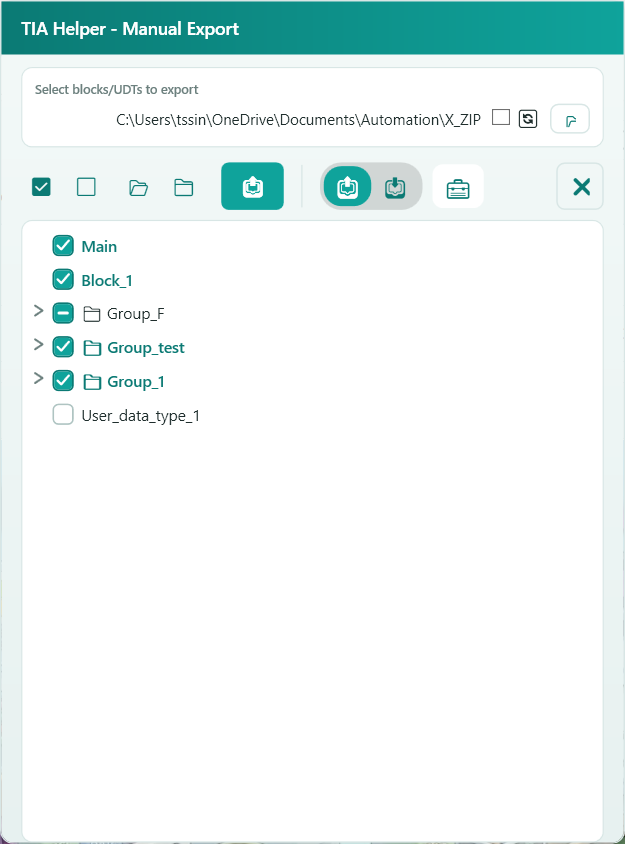
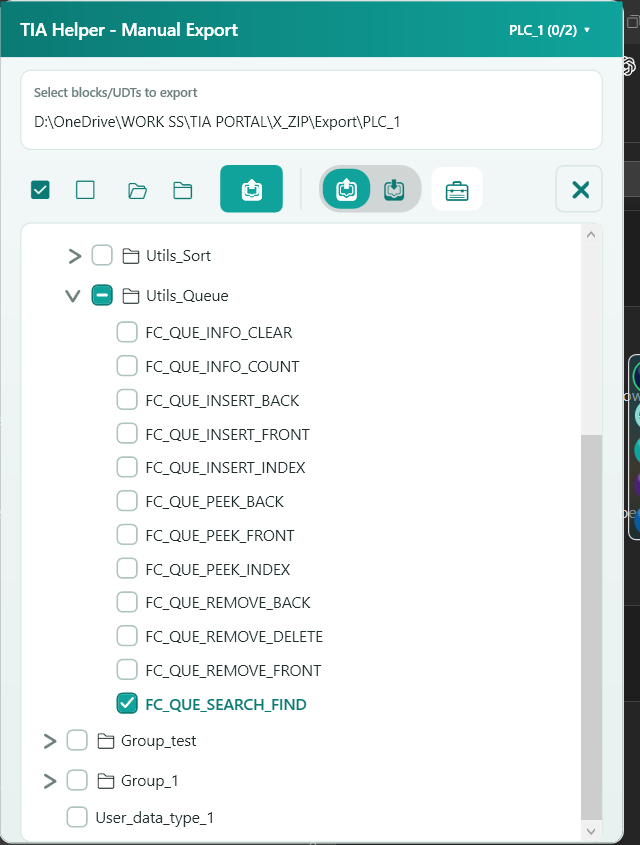
Document PLC picker, right-click menu, and auto-relocate import (v1.0.43)
Updates the Export/Import sections with the multi-PLC dropdown, per-node
right-click menu (export/delete), and the new auto-relocate-to-folder
behavior on import.

diff --git a/README.md b/README.md
@@ -106,10 +106,11 @@ Right-click the Export button to pick which blocks/UDTs to export and where:
 ![Export popup](docs/images/export-popup.png)
 
 - Check the blocks/UDTs you want in the tree (checking a folder checks everything under
-  it). Your checks are remembered per project, and which folders you left expanded/
-  collapsed is remembered too for as long as the app keeps running.
-- **Change...** picks the destination folder — TIA Helper auto-creates a subfolder named
-  after your TIA project, so different projects never mix their files.
+  it). Your checks, which folders you left expanded/collapsed, and even the tree's scroll
+  position are all remembered per project — and now survive a real app restart, not just
+  while the app keeps running.
+- Destination is auto-derived from your TIA project's own file location — a subfolder
+  named after your project, so different projects never mix their files.
 - The icons above the tree are **Select all / Clear / Expand all / Collapse all**.
 - Opens instantly the second time onward — the block list is cached after the first
   connect, and quietly refreshes itself in the background (including the moment right
@@ -118,6 +119,18 @@ Right-click the Export button to pick which blocks/UDTs to export and where:
   else gets re-written, so re-exporting a big project stays fast.
 - Click the export icon at the bottom to run it right now — it dims when there's nothing
   selected or no destination set yet, same as the toolbar's own Export/Import button.
+- **Multiple PLCs in one project?** A badge in the top-right corner (e.g. `PLC_1 (1/2)`)
+  lets you pick which PLC's tree you're looking at *and* which PLC(s) actually get covered
+  when Export runs — check more than one and a single Export run covers all of them:
+
+  ![PLC picker dropdown](docs/images/plc-dropdown.png)
+
+- **Right-click any block/UDT (or a whole folder) for a quick one-off menu** — export just
+  that item right now regardless of what's checked, or (for a single block/UDT) delete it
+  from the PLC entirely. Deleting asks you to type the block's name to confirm first —
+  there's no undo, so make sure you have your own project backup:
+
+  ![Right-click menu on a tree node](docs/images/node-context-menu.png)
 
 </details>
 
@@ -131,11 +144,22 @@ Same picker, pointed at a local folder instead of your TIA project:
 - Check a file to queue it for import.
 - Left-clicking the toolbar's Import button re-imports whichever file was last active —
   handy right after editing it in your own editor.
+- Right-click a file (or a whole folder) for the same one-off "import just this now"
+  shortcut Export has — no need to check it first.
 - **Auto mode** can watch every checked file and re-import automatically the instant you
   save it.
 - If **Sync export → import** (badge menu) isn't Off, checking/unchecking files here also
   updates the Export page's own selection, following whichever of the two sync modes
   you picked.
+
+> **Where imported blocks land**: TIA Portal's own API for generating a block from an SCL
+> file has no way to target a specific folder — it always lands at your PLC's top level
+> first. TIA Helper now automatically relocates it afterward to match the file's own
+> folder (e.g. a file at `Group_F\Utils_Queue\FC_X.scl` ends up in that same
+> `Group_F/Utils_Queue` group in TIA, creating the group if it doesn't exist yet) — this
+> only applies to the **Import** page (not Custom, whose folder has no set relationship
+> to your TIA structure). If the relocate step itself ever fails for some reason, the
+> block is safely restored to the top level rather than lost.
 
 </details>
 
